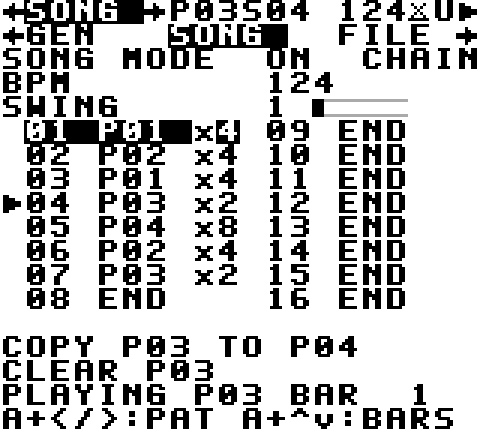
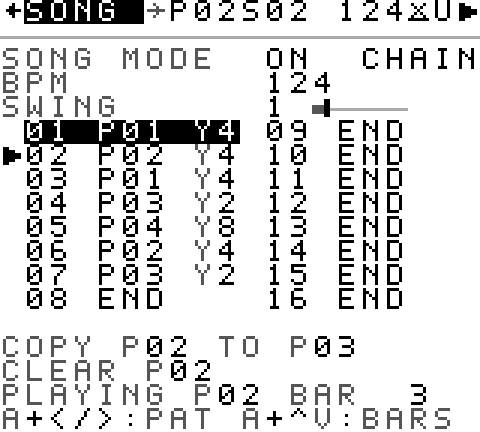
ETCH 3.0: the series face, screen order and Game Boy Color accent
ETCH now follows the ETCH series spec (docs/SERIES_SPEC.md, copied from
ETCH DS and checked by make), like ETCH II 2.0.

- Screens in the series order, LIVE > TRACK > SYNTH > GEN > SONG > FILE,
  and SELECT+LEFT/RIGHT wraps.
- The look of ETCH DS in four shades: ETCH DS's thin font (all capitals),
  grey captions over black values, rounded step cells (kick and accents
  black), hairline sliders with a thumb, the DS-style title.
- Game Boy Color colour mode (CGB flag 0x80): the cursor, the current
  screen, the playhead and the play mark show the accent #F45423; other
  Game Boys show them in black.
- LIVE lanes named BAS KCK SNR HAT OPN; a muted lane's hits show faint.
- FILE LOAD redraws only the rows the cursor touches.
- Bank 0: the FILE-only services moved to src/app_bank.c (427 bytes
  free). CORROSION is untouched (etch.h keeps its version string; the
  release is ETCH_RELEASE_STR in ui.h).

Tests: host 44/44; emulator 101/101 (3 new Game Boy Color checks).

Claude-Session: https://claude.ai/code/session_01P79eMKsidhtYV1SaL3tDMu

diff --git a/tests/emu_test.py b/tests/emu_test.py
@@ -474,7 +474,7 @@ def main():
     file_open(et, 2)
     rec("FILE > SAVE opens the slot list", "SAVE  B+A:ERASE" in et.e.screen_text()[1], et.e.screen_text()[1])
     txt = "\n".join(et.e.screen_text())
-    rec("blank SRAM shows empty slots (not corrupt)", "--empty--" in txt and "CORRUPT" not in txt)
+    rec("blank SRAM shows empty slots (not corrupt)", "--EMPTY--" in txt and "CORRUPT" not in txt)
     et.e.screenshot(os.path.join(art, "screen_file_save.png"))
     et.e.press("down"); et.e.press("down")
     et.e.press("a"); et.e.tick(20)
@@ -686,6 +686,27 @@ def main():
             pats_ok = False
     rec("5-minute CORRODE run: all 32 patterns valid", pats_ok)
     et.stop()
+
+    # ---- Game Boy Color: colour mode and the series accent (ETCH 3.0) -----------
+    cgb_boot = os.path.join(os.path.dirname(sb_util.BOOT), "cgb_boot.bin")
+    if os.path.exists(cgb_boot):
+        dmg_boot, sb_util.BOOT = sb_util.BOOT, cgb_boot
+        e = sb_util.SB(rom, model="cgb")
+        e.tick(300); e.press("start"); e.tick(120)
+        rec("GBC: boots in colour mode", e.rd("ui_cgb") == 1 and e.rd("seq_playing") == 1)
+        shot = os.path.join(art, "screen_cgb_live.png")
+        e.screenshot(shot, scale=1)
+        from PIL import Image
+        px = list(Image.open(shot).convert("RGB").getdata())
+        acc = sum(1 for (r, g, b) in px if r > 200 and 40 < g < 130 and b < 90)
+        rec("GBC: the accent #F45423 shows (cursor, screen name, playhead)", acc > 50, "%d accent pixels" % acc)
+        e.wav_start(os.path.join(art, "cgb_live.wav")); e.tick(300); e.wav_stop()
+        x, sr = sb_util.read_wav(os.path.join(art, "cgb_live.wav"))
+        rec("GBC: audio plays in colour mode", rms(x) > 300, "rms=%.0f" % rms(x))
+        e.stop()
+        sb_util.BOOT = dmg_boot
+    else:
+        rec("GBC checks need tests/sameboy/bin/cgb_boot.bin", False)
 
     passed = sum(1 for r in RESULTS if r[1])
     with open(os.path.join(art, "emu_results.txt"), "w") as f:

diff --git a/src/ui/scr_file.c b/src/ui/scr_file.c
@@ -133,25 +133,30 @@ static void draw_menu(void)
     ui_cap(0, 17, "A:OPEN");
 }
 
+/* one row of the LOAD list (cursor moves redraw only the rows they touch) */
+static void load_row(uint8_t i)
+{
+    uint8_t y = (uint8_t)(2 + i);
+    ui_fill(0, y, SCR_W, 0);
+    if (i < NUM_TRACKS) {
+        ui_put(0, y, 'D' - 32);
+        ui_put(1, y, (uint8_t)('1' - 32 + i));
+        ui_textn(3, y, track_names[i], 14);
+    } else {
+        slot_line(y, (uint8_t)(i - NUM_TRACKS));
+    }
+    if (cur == i) {
+        ui_invert(0, y, 2);
+        if (armed == i) { ui_text(16, y, "A?"); ui_invert(16, y, 2); }
+    }
+}
+
 static void draw_load(void)
 {
-    uint8_t i, y;
+    uint8_t i;
     ui_row1("LOAD  DEMOS / SAVES ");
     clear_body();
-    for (i = 0; i < N_LOAD; i++) {
-        y = (uint8_t)(2 + i);
-        if (i < NUM_TRACKS) {
-            ui_put(0, y, 'D' - 32);
-            ui_put(1, y, (uint8_t)('1' - 32 + i));
-            ui_textn(3, y, track_names[i], 14);
-        } else {
-            slot_line(y, (uint8_t)(i - NUM_TRACKS));
-        }
-        if (cur == i) {
-            ui_invert(0, y, 2);
-            if (armed == i) { ui_text(16, y, "A?"); ui_invert(16, y, 2); }
-        }
-    }
+    for (i = 0; i < N_LOAD; i++) load_row(i);
 }
 
 static void draw_save(void)
@@ -244,7 +249,11 @@ void scr_file_frame(void) BANKED
     n = view == V_MENU ? N_MENU : view == V_LOAD ? N_LOAD : NUM_SLOTS;
     if (nav & J_UP) cur = cur ? (uint8_t)(cur - 1) : (uint8_t)(n - 1);
     if (nav & J_DOWN) cur = (uint8_t)((cur + 1) % n);
-    if (old != cur) { armed = 0xFF; draw(); }
+    if (old != cur) {
+        armed = 0xFF;
+        if (view == V_LOAD) { load_row(old); load_row(cur); }
+        else draw();
+    }
 
     if (view == V_MENU) {
         if (ui_a_tap()) {

diff --git a/docs/TESTING.md b/docs/TESTING.md
@@ -5,6 +5,20 @@ by Synth Centric
 
 This report gives the result of every check that was actually run, and states clearly what could **not** be verified.
 
+## ETCH 3.0 (2026-11-17)
+
+ETCH 3.0 changes only the look, the screen order and the Game Boy Color colour mode (`docs/RELEASE_NOTES.md`). CORROSION and the sound engine are unchanged.
+
+| Suite | Result |
+|---|---|
+| Host: CORROSION (`make hosttest`) | **44 / 44** |
+| Emulator, SameBoy DMG-B (`make emutest`) | **101 / 101**: the 2.5 suite updated for the wrapping screen order (LIVE ► TRACK ► SYNTH ► GEN ► SONG ► FILE) and all-capitals text, plus 3 new Game Boy Color checks on the SameBoy CGB-E model: it boots in colour mode, the accent #F45423 shows, and audio plays |
+| Bank 0 | 427 bytes free (2.5: 511). The FILE-only services moved to a banked file (`src/app_bank.c`) to make room for the colour code. |
+
+Not tested on real hardware: in particular the accent on a real Game Boy Color screen.
+
+The sections below describe the 2.5 release.
+
 ## Test environment
 
 | | |
